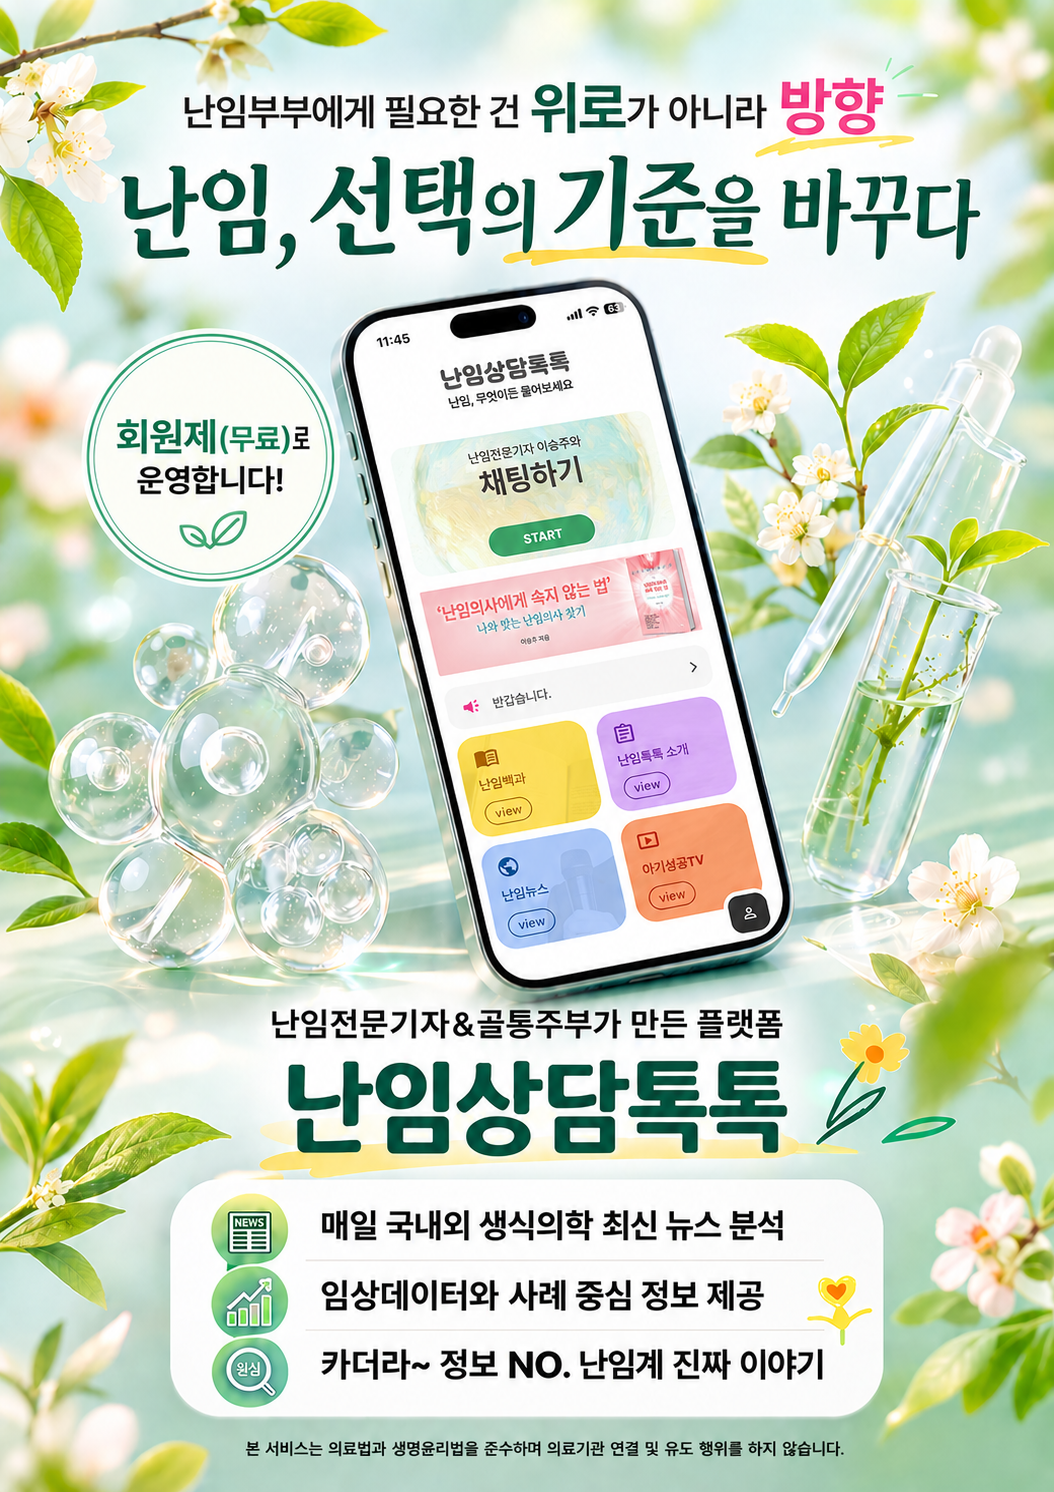
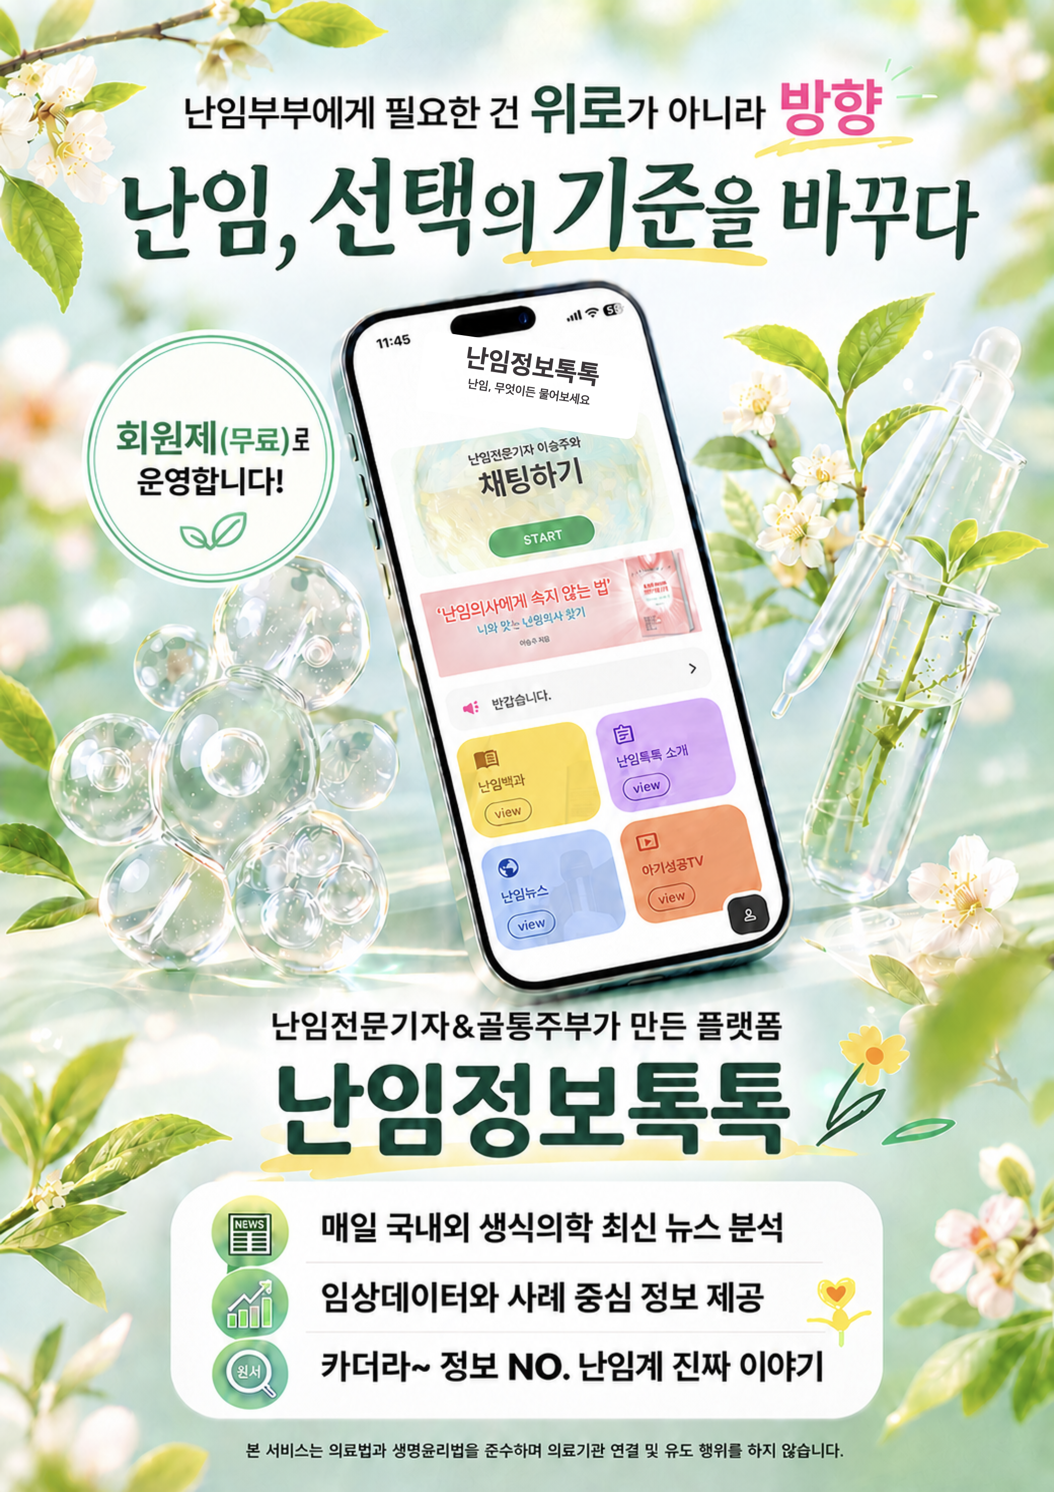
assets: update web poster brand image

diff --git a/admin-web/src/__tests__/companyProfilePage.test.js b/admin-web/src/__tests__/companyProfilePage.test.js
@@ -108,7 +108,7 @@ describe('company profile page', () => {
     const publicDir = path.join(srcDir, '..', 'public');
 
     expect(companyProfile).toMatch(/companyHeroImage/);
-    expect(companyProfile).toMatch(/home-dashboard\.png\?v=3a2a078/);
+    expect(companyProfile).toMatch(/home-dashboard\.png\?v=info-talktalk-poster/);
     expect(companyProfile).not.toMatch(/대표 이미지/);
     expect(companyProfile).not.toMatch(/홈 화면 대표 이미지/);
     expect(companyProfile).not.toMatch(/서비스의 분위기와 핵심 메시지/);

diff --git a/admin-web/src/components/HomeDashboard.jsx b/admin-web/src/components/HomeDashboard.jsx
@@ -200,7 +200,7 @@ function HomeDashboard() {
           >
             <Box
               component="img"
-              src="/home-dashboard.png"
+              src="/home-dashboard.png?v=info-talktalk-poster"
               alt="난임정보톡톡"
               sx={{
                 display: 'block',

diff --git a/admin-web/src/components/CompanyProfile.jsx b/admin-web/src/components/CompanyProfile.jsx
@@ -119,7 +119,7 @@ const serviceLinks = [
 ];
 
 const companyHeroImage = {
-  src: '/home-dashboard.png?v=3a2a078',
+  src: '/home-dashboard.png?v=info-talktalk-poster',
   alt: '아기성공연구소 서비스 홈 이미지',
 };
 
